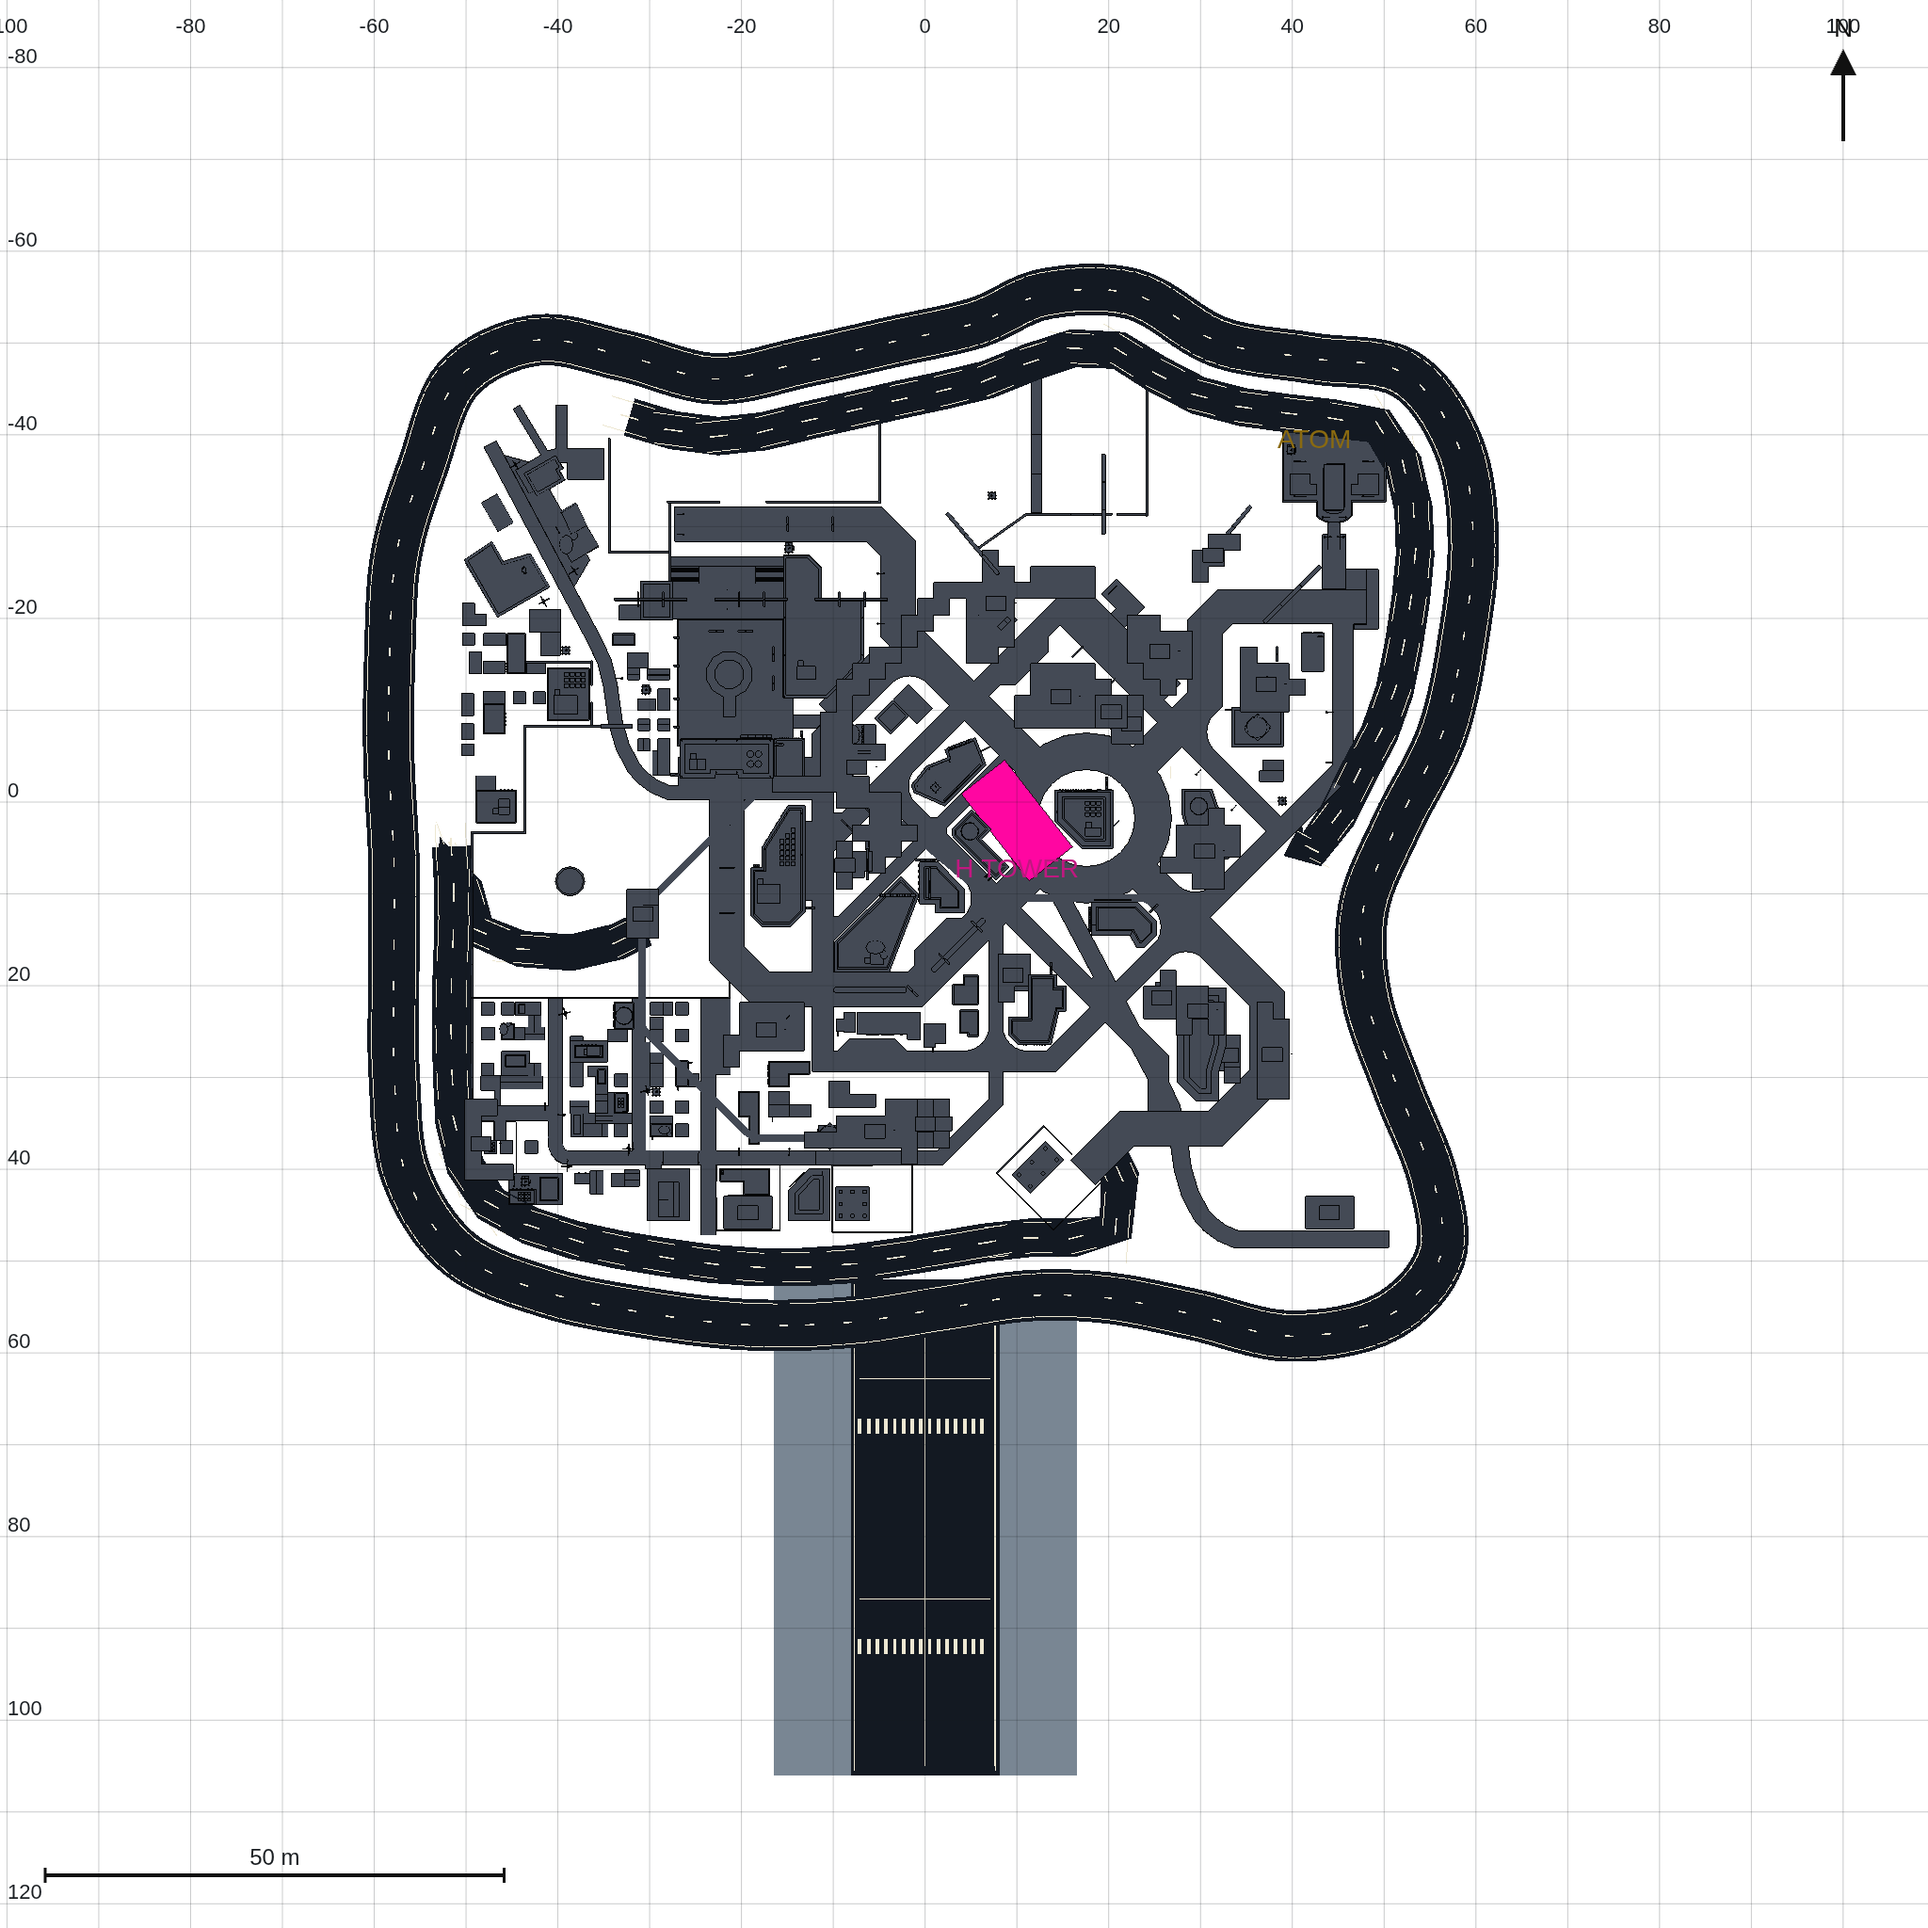
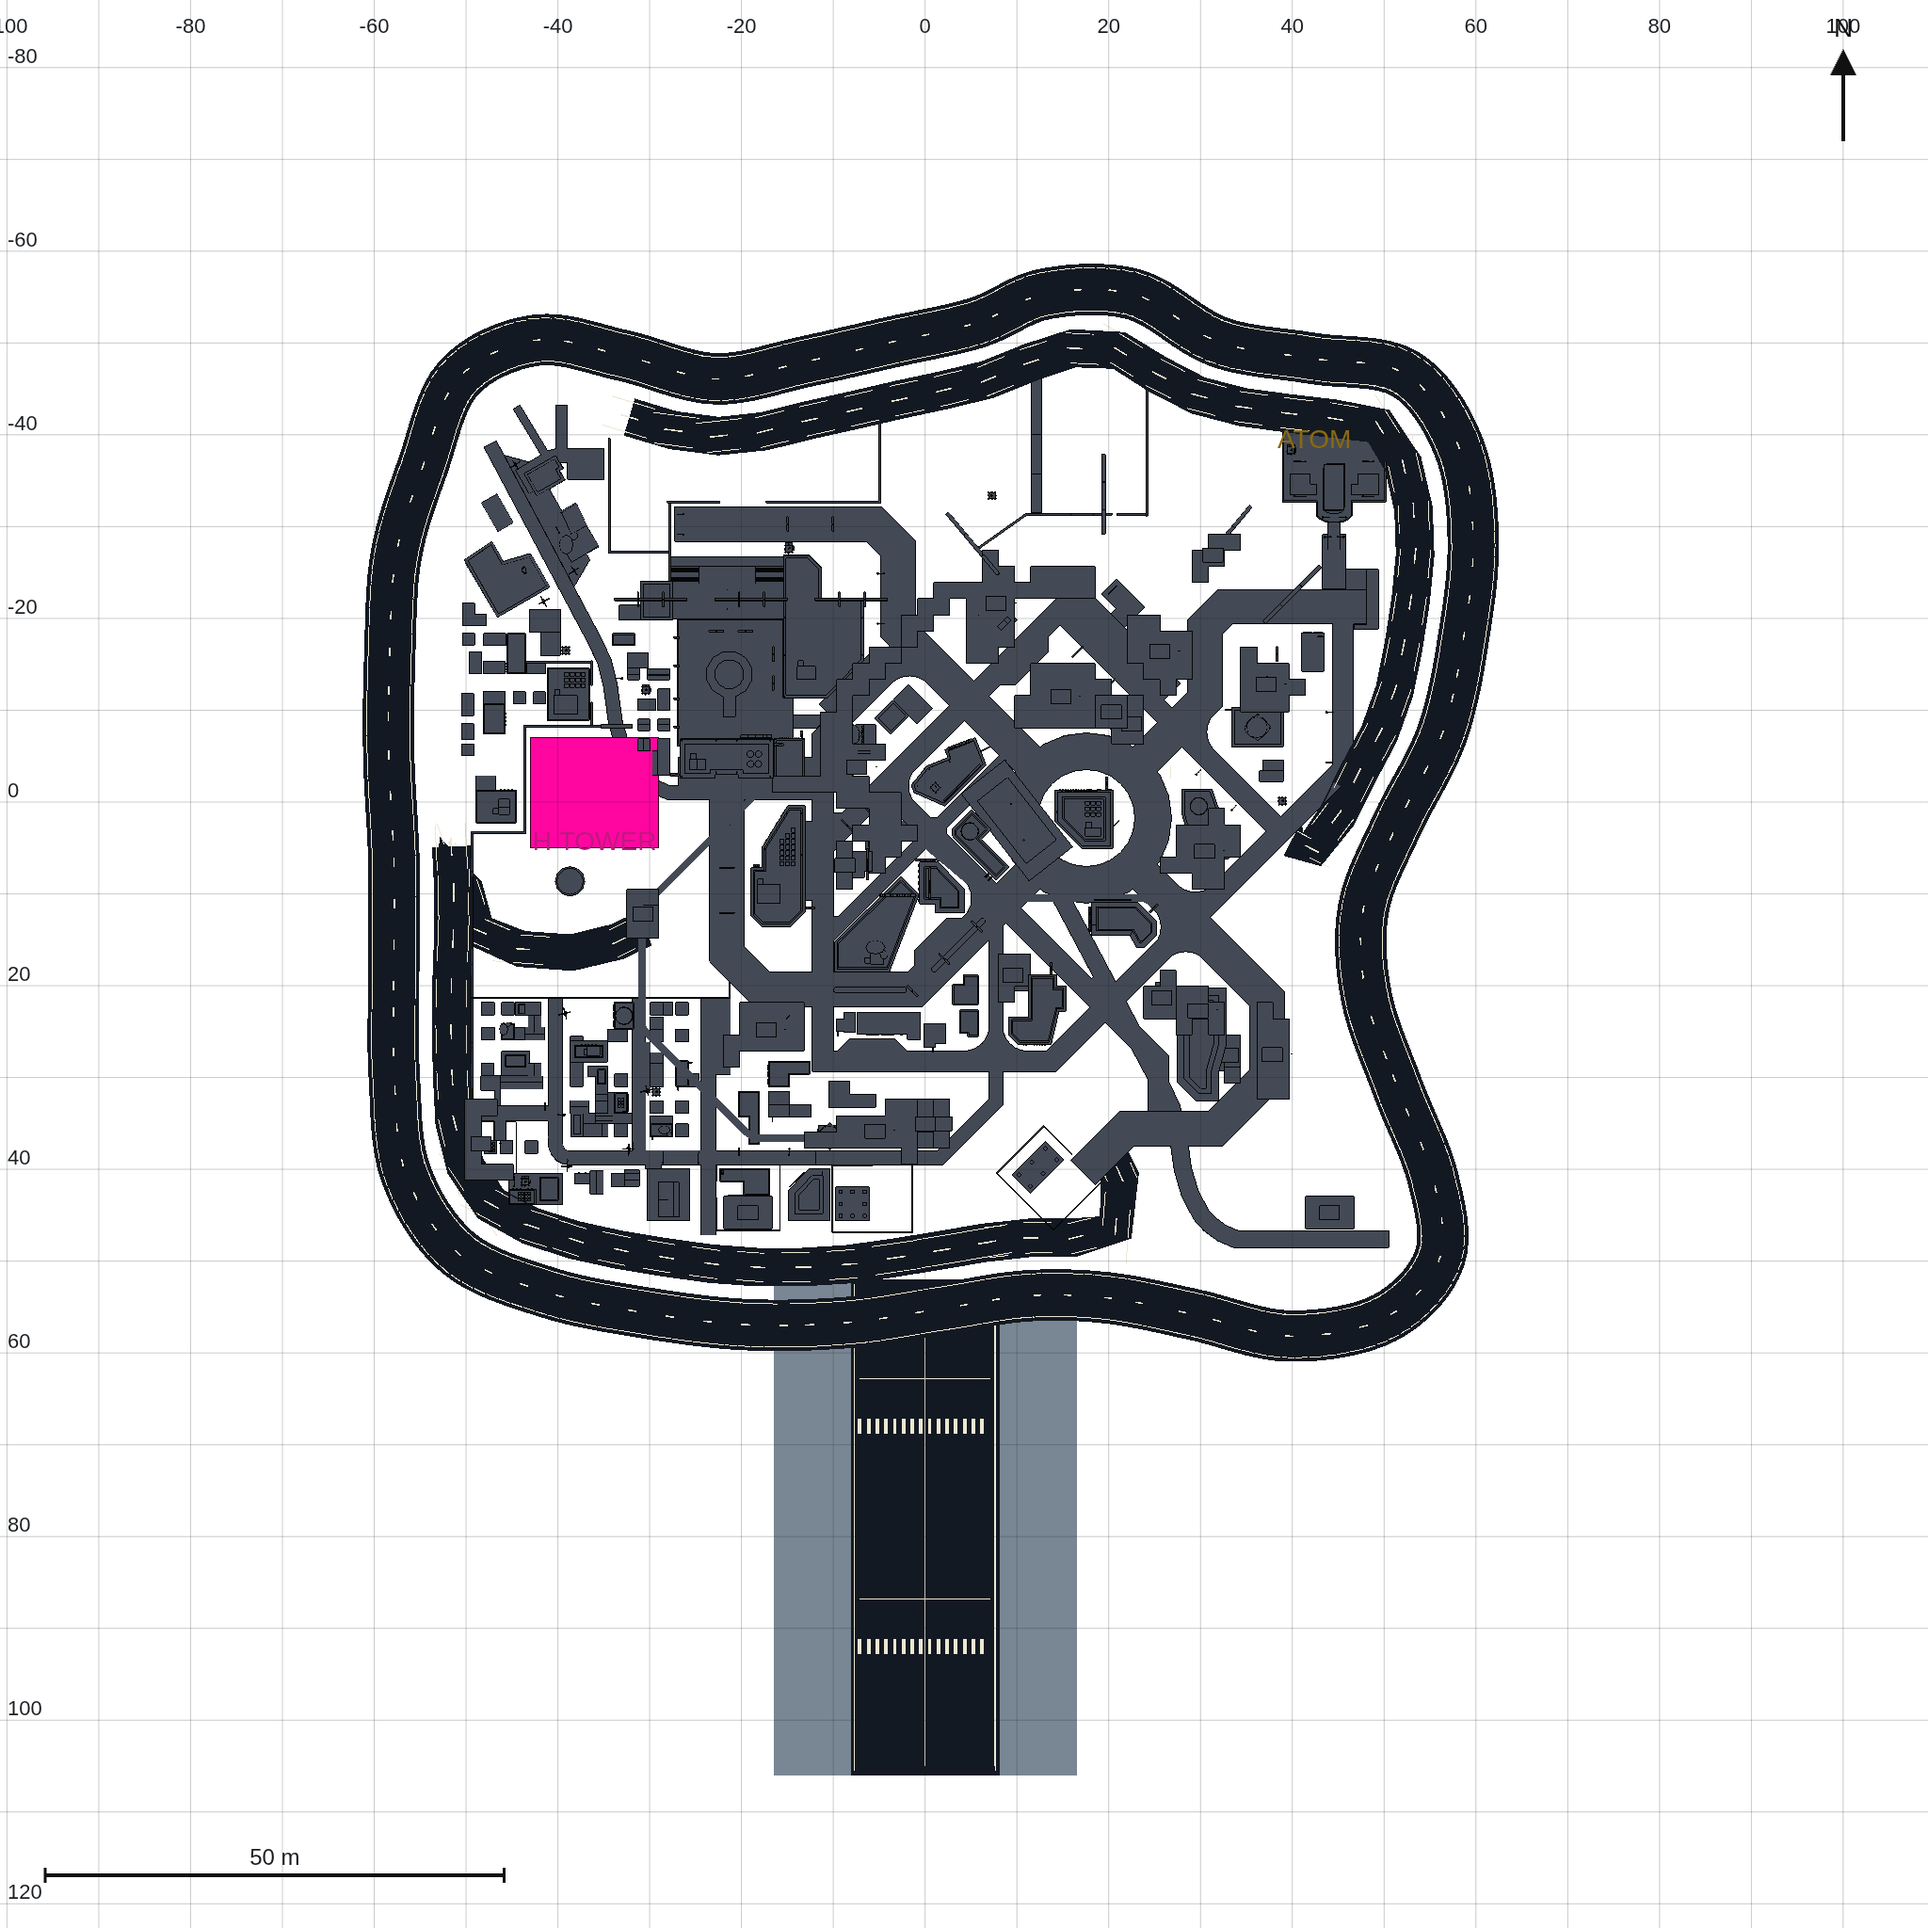
Preview: PR16 west-plot shrink (60c1295) at /h-tower/
H tower is 12×14 m at (-36, -1), rot 90°. Origin gap filled with a mid-rise. No data.js change.

Changed region(s): [[0.25, 0.375, 0.3438, 0.4375], [0.5, 0.375, 0.5625, 0.4688]]

diff --git a/h-tower/js/city.js b/h-tower/js/city.js
@@ -2376,6 +2376,37 @@ for (let i = 0; i < 3; i++) {
   }
 }
 
+
+S.buildOldSiteFill = function buildOldSiteFill() {
+  const spec = S.OLD_SITE || { x: 10, z: 2, w: 12, d: 6, rot: 128, h: 18 };
+  const g = new S.THREE.Group();
+  g.name = 'old-hq-block';
+  const h = spec.h || 18;
+  const w = spec.w, d = spec.d;
+  const baseH = h * 0.62, topH = h * 0.28, roofH = 0.7;
+  const facade = S.facadeMat(2, Math.max(1.2, w / 6), Math.max(1.8, baseH / 10));
+  const upper = S.facadeMat(3, Math.max(1.0, w / 7), Math.max(1.4, topH / 8));
+  const dark = S.M(0x141820, { metalness: 0.62, roughness: 0.42 });
+  S.box(w, baseH, d, facade, 0, baseH / 2, 0, g);
+  S.box(w * 0.72, topH, d * 0.7, upper, 0, baseH + topH / 2, 0, g);
+  S.box(w * 0.8, roofH, d * 0.78, dark, 0, baseH + topH + roofH / 2, 0, g);
+  // corner neon, same language as the surrounding blocks, kept dim
+  const ec = 0x00f0ff, em = 0xff2a6d;
+  S.box(0.12, baseH, 0.12, S.E(ec, 1.2), w / 2, baseH / 2, d / 2, g);
+  S.box(0.1, baseH, 0.1, S.E(em, 0.9), -w / 2, baseH / 2, -d / 2, g);
+  const ant = 5.5;
+  S.box(0.18, ant, 0.18, S.M(0x555a70, { metalness: 0.85 }), w * 0.15, baseH + topH + roofH + ant / 2, d * 0.1, g);
+  S.box(0.12, ant * 0.7, 0.12, S.M(0x555a70, { metalness: 0.85 }), -w * 0.18, baseH + topH + roofH + ant * 0.35, -d * 0.12, g);
+  g.position.set(spec.x, 0, spec.z);
+  g.rotation.y = (spec.rot || 0) * Math.PI / 180;
+  S.scene.add(g);
+  S.oldSiteFill = g;
+  S.oldSiteFillMeta = { x: spec.x, z: spec.z, w, d, rot: spec.rot || 0, h };
+  console.info('[old-site] mid-rise fill', S.oldSiteFillMeta);
+};
+
+S.buildOldSiteFill();
+
 // Side billboards only. A second vertical neon here used to ghost through the first.
 S.megas.filter(m => m.depth === 0).forEach((m, i) => {
   const face = m.x >= 0 ? -1 : 1;
@@ -2783,6 +2814,18 @@ window.__renderCityPlan = function (withRoads, highwayOnly, opts) {
       buildings.push(o);
     });
   }
+  const extra = [];
+  if (S.oldSiteFill) extra.push(S.oldSiteFill);
+  extra.forEach(root => {
+    root.updateMatrixWorld(true);
+    root.traverse(o => {
+      if (!o.isMesh || !o.geometry) return;
+      const box = new S.THREE.Box3().setFromObject(o);
+      if (box.max.y - box.min.y < 1.6) return;
+      buildings.push(o);
+    });
+  });
+
   const roads = [];
   S.scene.traverse(o => { if (o.isMesh && o.userData.planRoad) roads.push(o); });
   const inHighway = (m) => {

diff --git a/h-tower/js/scope.js b/h-tower/js/scope.js
@@ -1,14 +1,20 @@
 export const S = {};
 
-// H office tower stays on the original central plot (it was at the origin
-// on main, rotated 138°, 22×14 m). That exact pose sits on top of original
-// mid-rise blocks, so the tower is shrunk and slid to the only clear pocket
-// still inside the original 22×14 footprint: the gap between those blocks
-// and the eastern civic circle. The city GLB, roads, highway, and ATOM are
-// unchanged. The decorative 14 m plaza ring that used to circle the old
-// base has been removed.
-S.TOWER_X = 10;
-S.TOWER_Z = 2;
-S.TOWER_ROT = 128; // degrees; was 138. Door is local +Z.
-S.TOWER_FW = 12;   // world footprint (metres). Built locally at 22×14, then scaled.
-S.TOWER_FD = 6;
+// Shrunk H office tower, moved to the west empty plot. The original 22×14 m
+// slab at the origin (rot 138°) sat on existing mid-rises; after the move those
+// stay in the city mesh, and the leftover gap in the old plot is filled with
+// a mid-rise. The west pad keeps every original building, the civic disc, the
+// highway and ramps, and ATOM as on main. No mesh clipping, no new avenues.
+// Decorative 14 m plaza ring at the old base has been removed.
+//
+// Local 12×14 m (width shrunk from 22, depth unchanged) at rot 90° so the
+// door (local +Z) faces east toward the existing N–S street. World footprint
+// is 14 m east–west by 12 m north–south.
+S.TOWER_X = -36;
+S.TOWER_Z = -1;
+S.TOWER_ROT = 90; // degrees; door (local +Z) faces east
+S.TOWER_FW = 12;
+S.TOWER_FD = 14;
+
+// Mid-rise that fills the leftover gap in the original origin plot.
+S.OLD_SITE = { x: 10, z: 2, w: 12, d: 6, rot: 128, h: 18 };

diff --git a/h-tower/js/overlap-check.js b/h-tower/js/overlap-check.js
@@ -170,19 +170,27 @@ function collectBuildings() {
     pts: towerCorners(tw.tx, tw.tz, tw.rot, tw.fw, tw.fd),
   });
 
-  function addNamed(name, id) {
-    let found = null;
-    S.scene.traverse(o => { if (!found && o.name === name) found = o; });
-    if (!found) return;
-    found.updateMatrixWorld(true);
-    const box = new S.THREE.Box3().setFromObject(found);
-    if (box.max.y - box.min.y < 1.6) return;
+  if (S.oldSiteFillMeta) {
+    const m = S.oldSiteFillMeta;
     items.push({
-      id, kind: 'building', group: 'placed',
-      pts: boxCorners(box.min.x, box.min.z, box.max.x, box.max.z),
+      id: 'old-hq', kind: 'building', group: 'placed',
+      pts: towerCorners(m.x, m.z, m.rot || 0, m.w, m.d),
     });
+  } else {
+    function addNamed(name, id) {
+      let found = null;
+      S.scene.traverse(o => { if (!found && o.name === name) found = o; });
+      if (!found) return;
+      found.updateMatrixWorld(true);
+      const box = new S.THREE.Box3().setFromObject(found);
+      if (box.max.y - box.min.y < 1.6) return;
+      items.push({
+        id, kind: 'building', group: 'placed',
+        pts: boxCorners(box.min.x, box.min.z, box.max.x, box.max.z),
+      });
+    }
+    addNamed('old-hq-block', 'old-hq');
   }
-  addNamed('old-hq-block', 'old-hq');
 
   if (window.__atom) {
     const a = window.__atom;

diff --git a/h-tower/docs/city-plan.md b/h-tower/docs/city-plan.md
@@ -1,6 +1,7 @@
 # City plan coordinates
 
-The H office tower now occupies a **12 × 6 m** slab at world `(10, 2)`, rotated **128°** (door is local +Z). That pose sits inside the original 22 × 14 m footprint at the origin (the official magenta rectangle on the earlier plans), in the gap between the central mid-rises and the eastern civic circle. The city mesh, roads, highway, and ATOM tower are unchanged from main. The decorative 14 m neon plaza ring around the old base has been removed.
+The H office tower is a **12 × 14 m** slab (width shrunk from 22 m, depth unchanged) at world `(-36, -1)` in the west empty plot, rotated **90°** so the door (local +Z) faces east toward the existing street. World footprint is 14 m east–west by 12 m north–south. The original origin plot is filled with the existing city mid-rises plus a new 12 × 6 m, 18 m-tall mid-rise at `(10, 2)`, rotated 128°, in the leftover gap toward the eastern civic circle. The city mesh, roads, highway, ramps, and ATOM are otherwise unchanged from main. The decorative 14 m neon plaza ring around the old base has been removed.
+
 
 To verify the H tower is clear of other buildings, the highway, rails, and roads:
 
@@ -34,7 +35,7 @@ px = (worldX - x0) / metersPerPixel - 0.5
 py = (worldZ - z0) / metersPerPixel - 0.5
 ```
 
-Grid lines are every 10 m, on multiples of 10. The labels are those world coordinates. The scale bar is 50 m. The office tower footprint is the magenta rectangle (12 m by 6 m, rotated 128°) at world (10, 2), inside the original origin plot. Open ground is white. Block footprints are mid-grey with a thin outline.
+Grid lines are every 10 m, on multiples of 10. The labels are those world coordinates. The scale bar is 50 m. The office tower footprint is the magenta rectangle at world (-36, -1) in the west plot. A grey mid-rise at (10, 2) fills the leftover gap in the original origin plot. Open ground is white. Block footprints are mid-grey with a thin outline.
 
 `city-plan-blank.png` has no generated roads. Grey paths inside the blocks are the city mesh itself. `city-plan-current-roads.png` adds the current avenue, lane pieces, and flyover in darker grey, with sidewalks lighter grey.
 
